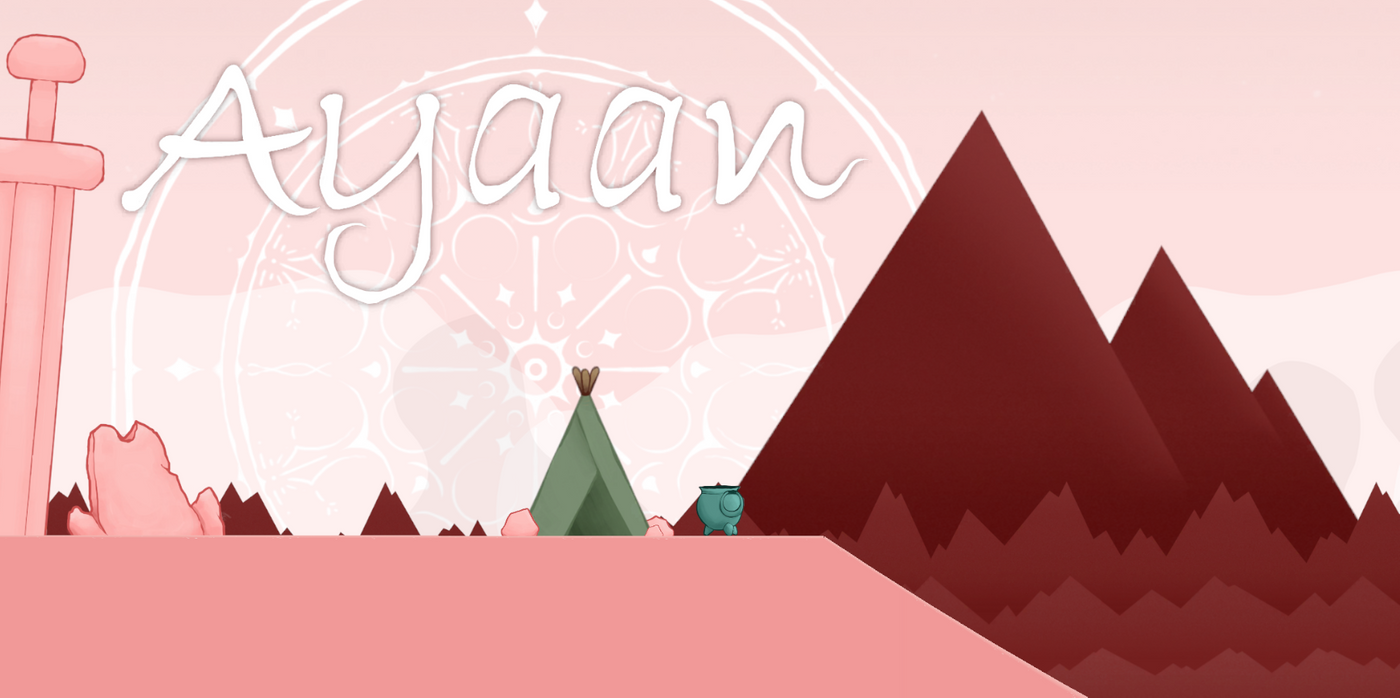
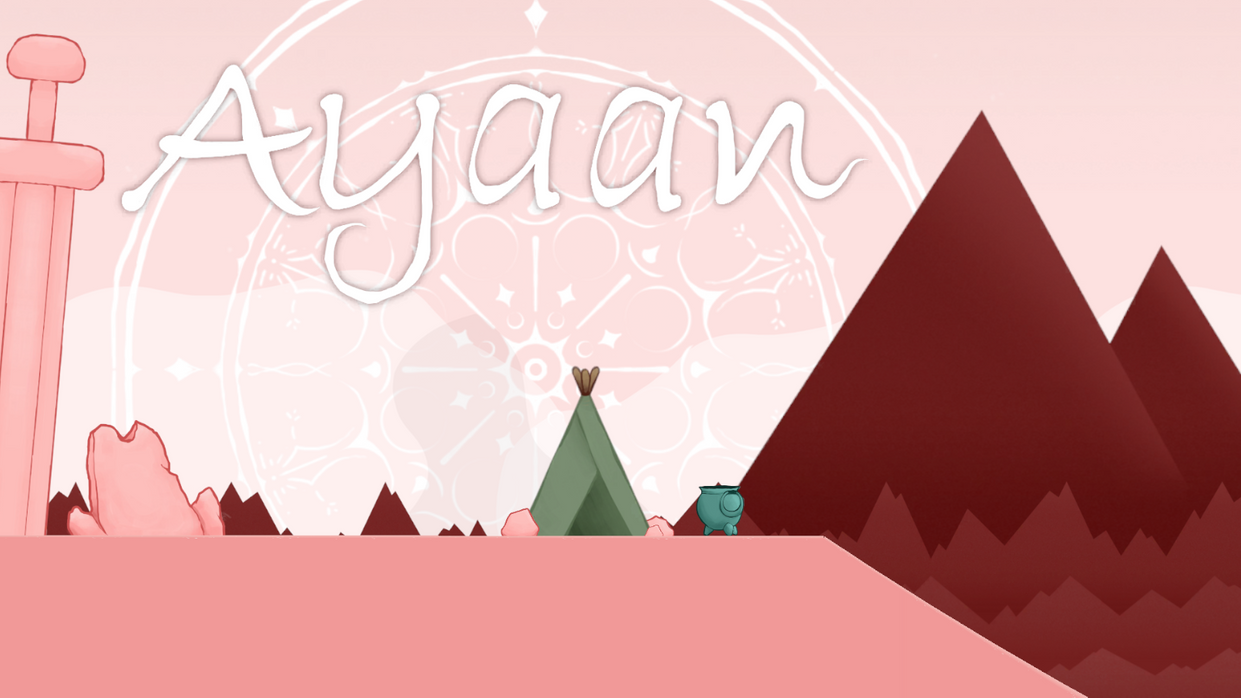
image was missplaced

diff --git a/MyProjects.html b/MyProjects.html
@@ -82,7 +82,7 @@
 						<h2><a href="AyaanGifs.html">Ayaan<br />
 							</a></h2>
 					</header>
-					<a href="AyaanGifs.html" class="image main"><img src="images/AyaanCover.png" alt="" /></a>
+					<a href="AyaanGifs.html" class="image fit"><img src="images/AyaanCover.png" alt="" /></a>
 					<p>Ayaan, was a small project I worked on as a class assignment. In it, you play as Ayaan,
 						a girl that has the power to control stone, and with it, you will have to catch the 3 stones
 						that scaped.
